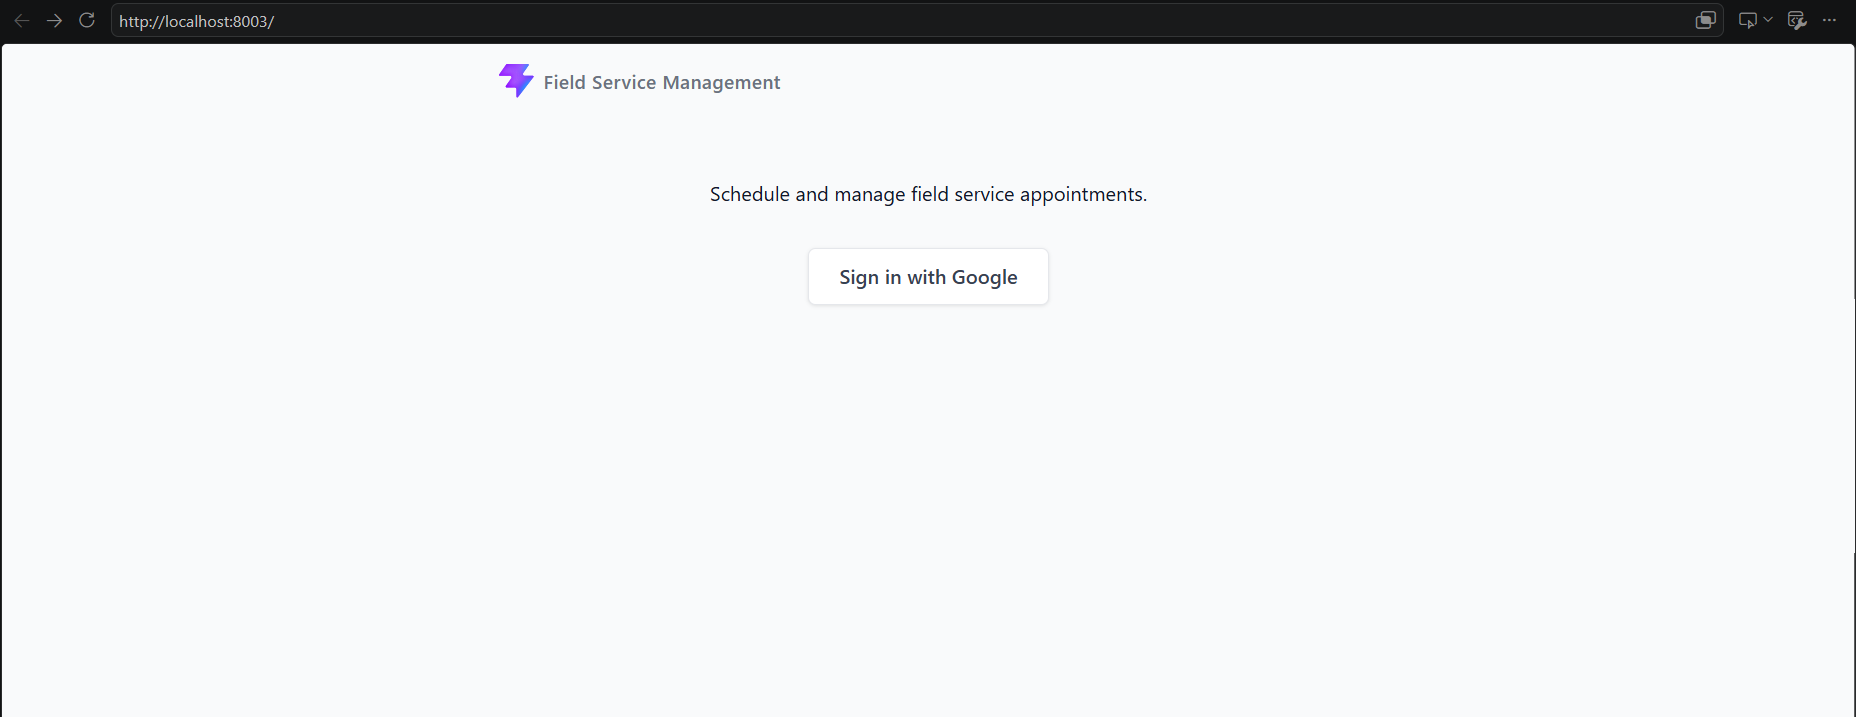
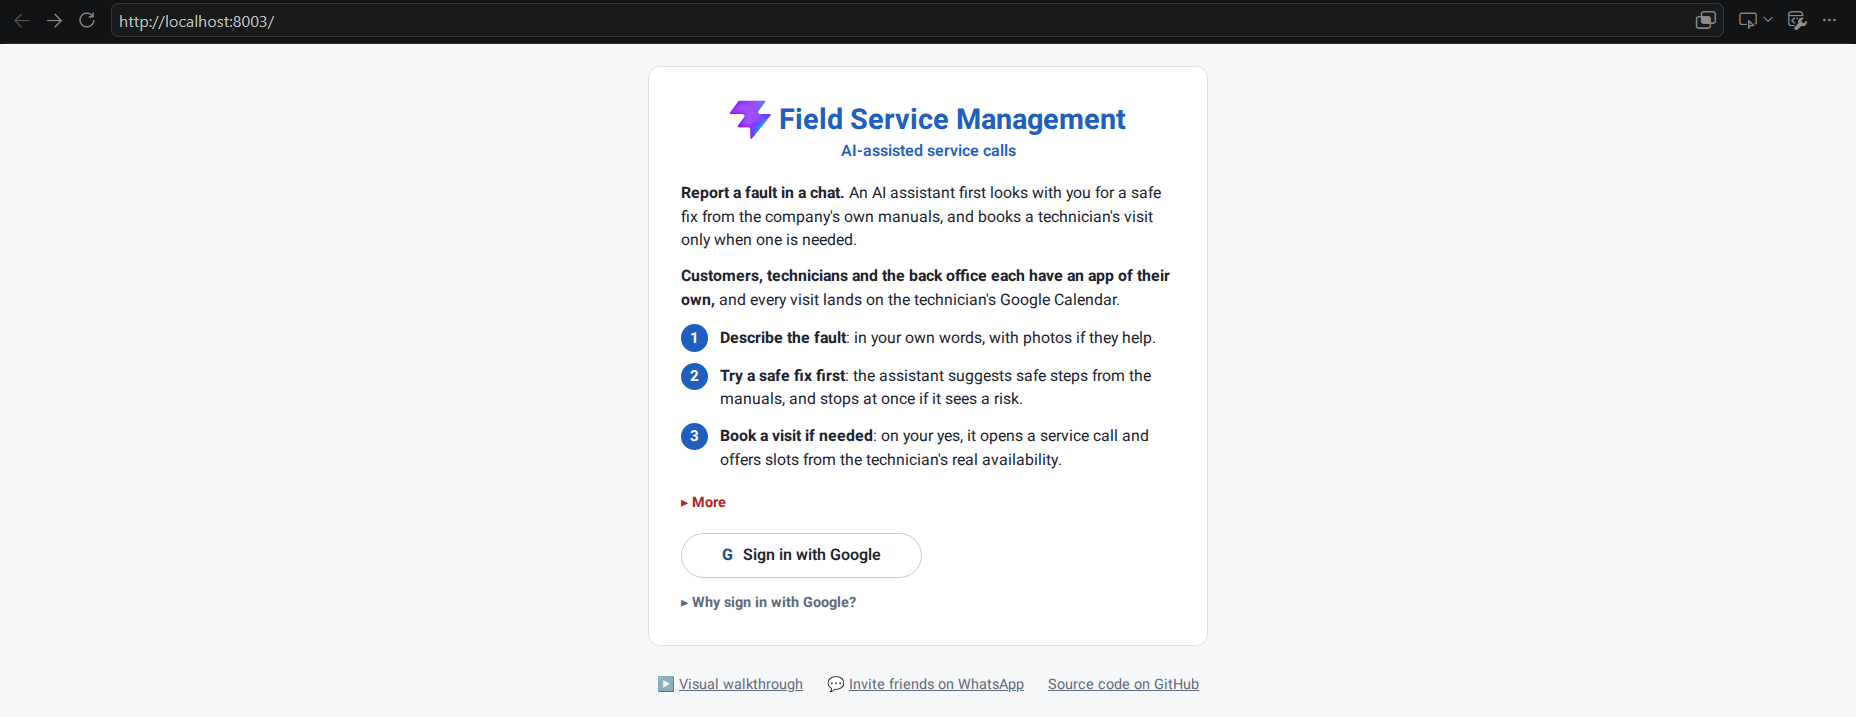
Show the redesigned sign-in page in the walkthrough's first screen of each role
Steps 1, 6 and 14 of the visual walkthrough showed the signed-out page as it was on 2 Aug 2026:
a logo, one tagline and a plain Google button. The apps now open on the shared landing card, so a
visitor following the walkthrough link from that card saw a page that no longer matched.

Now the three screenshots show the current card on each role's localhost port, under the browser
bars of the original run. The footer says which steps were recaptured and when, so the "single
run" claim stays accurate; the alt texts of steps 1 and 6 describe the card.

diff --git a/samples/walkthrough/index.html b/samples/walkthrough/index.html
@@ -243,7 +243,7 @@
       <span class="tag bo">Back office</span>
       <span class="step-title">Google is the only way to sign in (i.e. no password is ever required)</span>
     </div>
-    <img src="images/01-backoffice-signin.png" alt="Back office landing page with a single Sign in with Google button" loading="lazy" width="1856" height="717">
+    <img src="images/01-backoffice-signin.png" alt="Back office landing page on localhost:8003: the product card with its pitch and a Sign in with Google button" loading="lazy" width="1856" height="717">
     <figcaption>
       <details>
         <summary><span class="more">Show more</span><span class="less">Show less</span></summary>
@@ -339,7 +339,7 @@
       <span class="tag tech">Technician</span>
       <span class="step-title">The technician app is available on another port, 8001</span>
     </div>
-    <img src="images/06-technician-signin.png" alt="Technician app landing page on localhost:8001 with the Google login link visible in the status bar" loading="lazy" width="1920" height="982">
+    <img src="images/06-technician-signin.png" alt="Technician app landing page on localhost:8001, the same card as the back office" loading="lazy" width="1920" height="982">
     <figcaption>
       <details>
         <summary><span class="more">Show more</span><span class="less">Show less</span></summary>
@@ -720,6 +720,8 @@
   <p>Captured from a single local run on 2 Aug 2026, in chronological order, unedited apart from
      privacy redaction. The localhost addresses and browser chrome are deliberately left visible as
      evidence that this is the running stack rather than a design mockup.</p>
+  <p>Steps 1, 6 and 14 show the apps' current signed-out page, captured from the same local
+     stack on 24 Nov 2026 and placed under the browser bars of the original run.</p>
   <p>Pixelated regions are unrelated Google accounts that happened to be signed in on the machine,
      the OAuth client id, and a consent session token. Customer names, addresses and phone numbers
      shown are demo data.</p>
